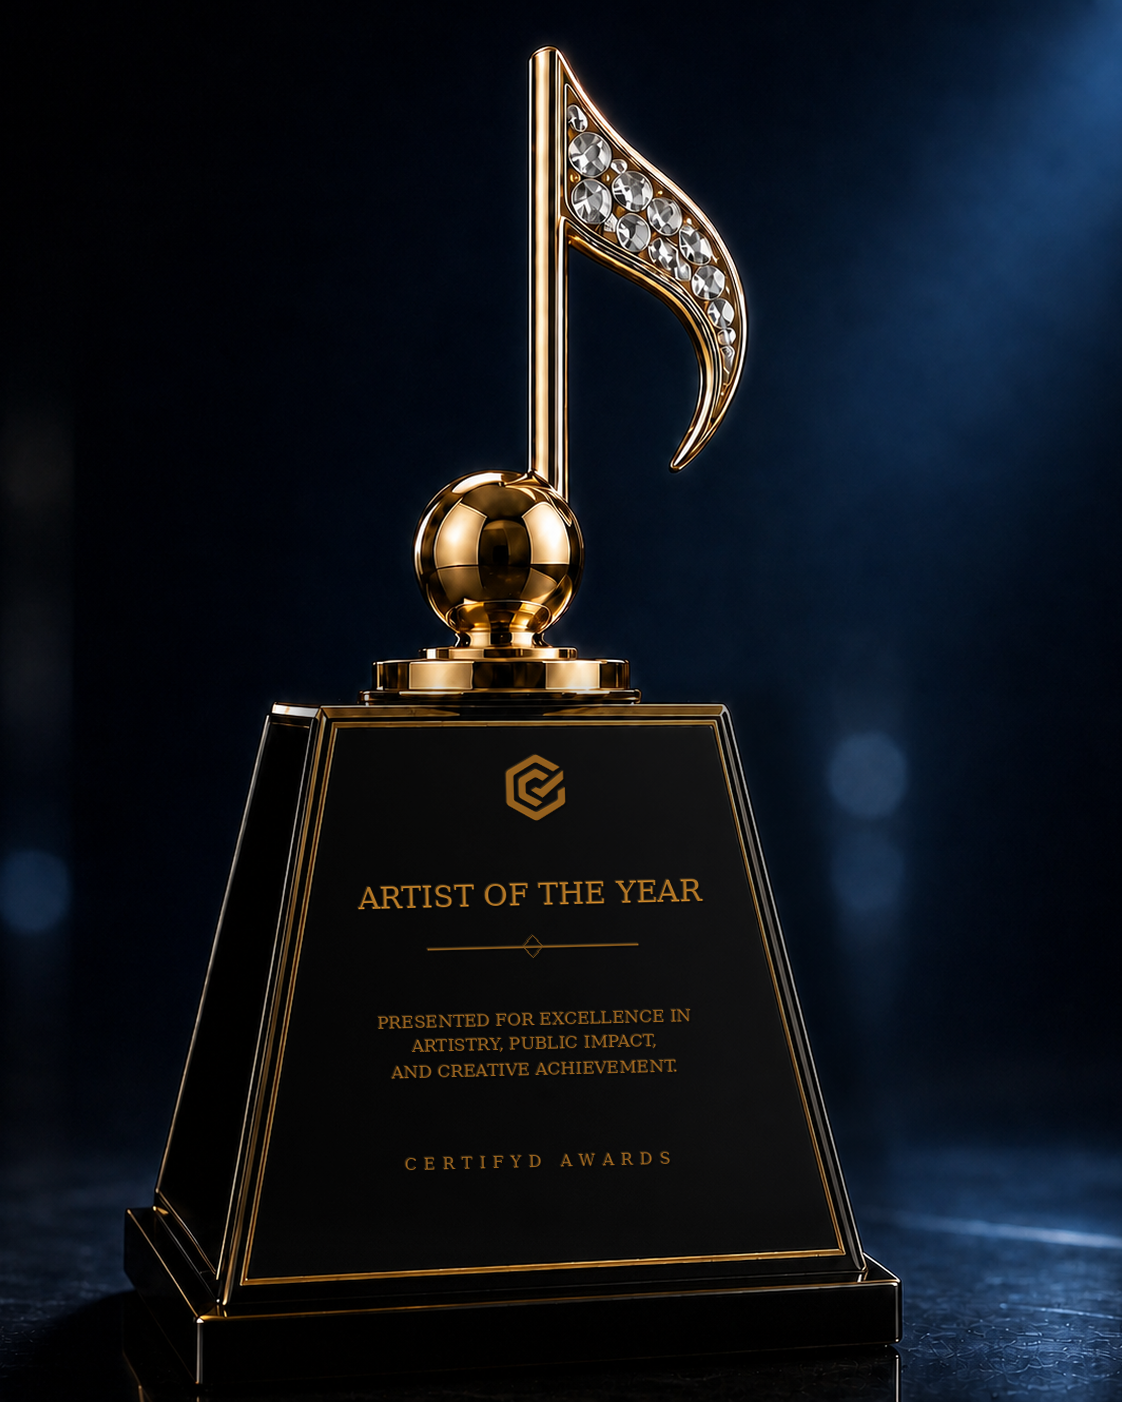
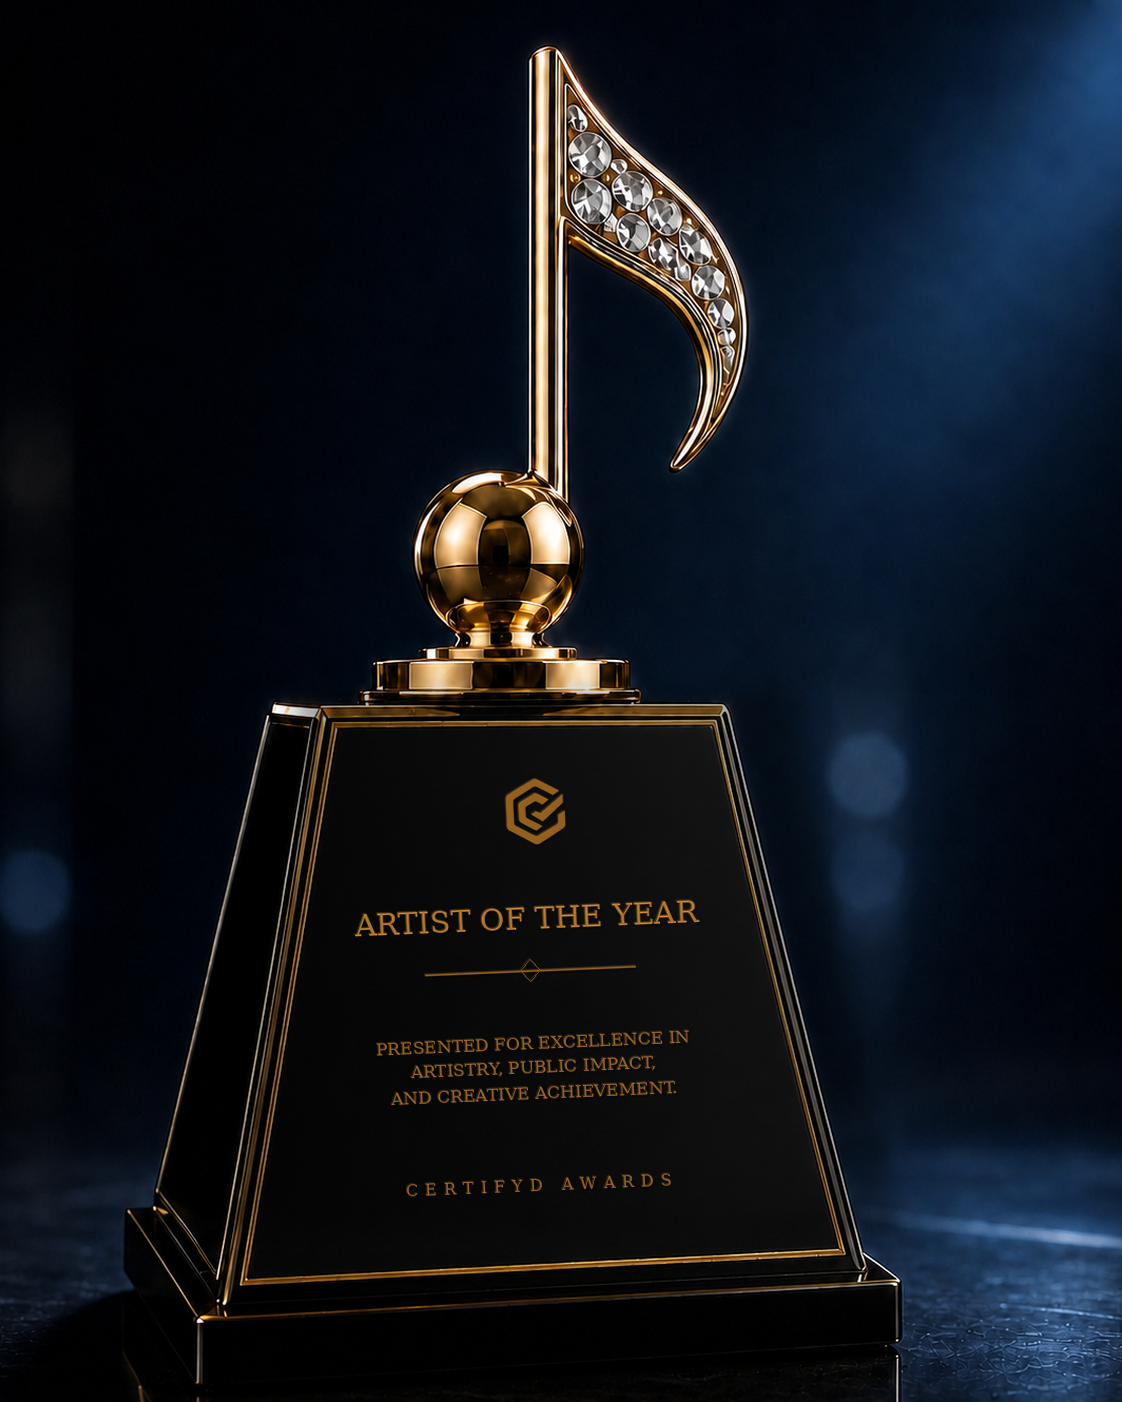
Adjust hero trophy engraving alignment

Changed region(s): [[0.3119, 0.5214, 0.6239, 0.7974], [0.4991, 0.8281, 0.5927, 0.8588], [0.3743, 0.8281, 0.4679, 0.8588]]

diff --git a/src/routes/Home.tsx b/src/routes/Home.tsx
@@ -101,7 +101,7 @@ export function Home() {
           </div>
         </div>
         <aside className="hero-award-visual" aria-hidden="true">
-          <img src="/media/certifyd-awards-modern-trophy.png?v=20260717-fixed-logo-v5" alt="" />
+          <img src="/media/certifyd-awards-modern-trophy.png?v=20260717-fixed-logo-v6" alt="" />
         </aside>
         <div className="hero-proof-strip" aria-label="Certifyd Awards values">
           <div><span aria-hidden="true">⬡</span><strong>Verified Excellence</strong><small>Work backed by proof</small></div>
@@ -176,7 +176,7 @@ export function Home() {
           </div>
         </div>
         <figure className="founders-home-visual" aria-label={foundersAward.name}>
-          <img src="/media/certifyd-awards-modern-trophy.png?v=20260717-fixed-logo-v5" alt="Certifyd Awards gold music note trophy" />
+          <img src="/media/certifyd-awards-modern-trophy.png?v=20260717-fixed-logo-v6" alt="Certifyd Awards gold music note trophy" />
         </figure>
       </section>
 

diff --git a/src/routes/FoundersAward.tsx b/src/routes/FoundersAward.tsx
@@ -61,7 +61,7 @@ export function FoundersAward() {
           </div>
         </div>
         <figure className="founders-hero-visual">
-          <img src="/media/certifyd-awards-modern-trophy.png?v=20260717-fixed-logo-v5" alt="Certifyd Awards gold music note trophy" />
+          <img src="/media/certifyd-awards-modern-trophy.png?v=20260717-fixed-logo-v6" alt="Certifyd Awards gold music note trophy" />
         </figure>
       </section>
 